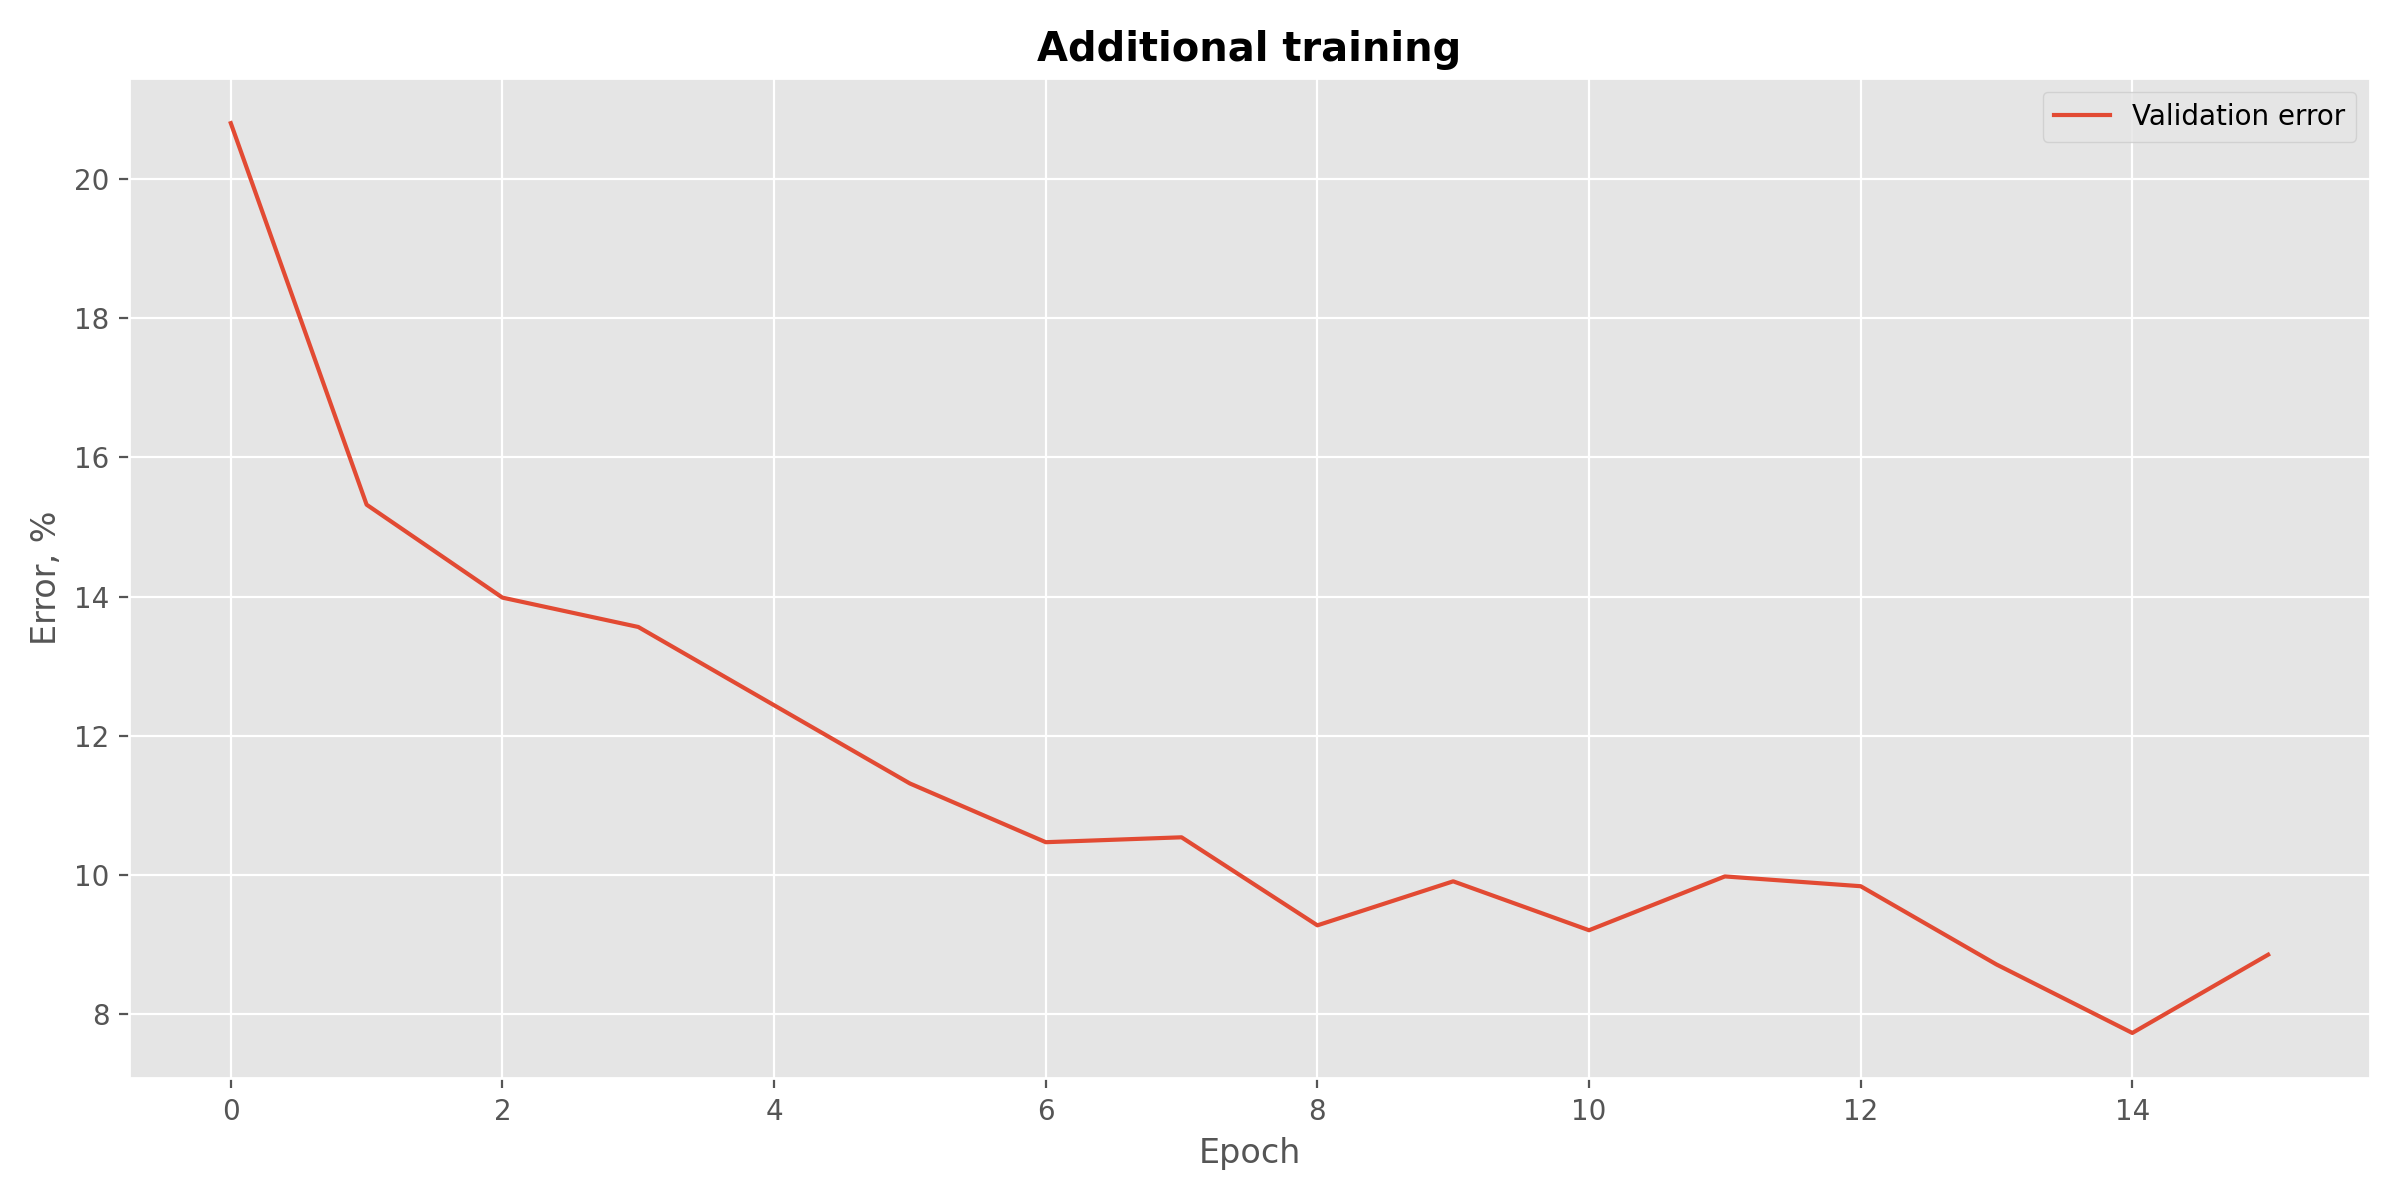
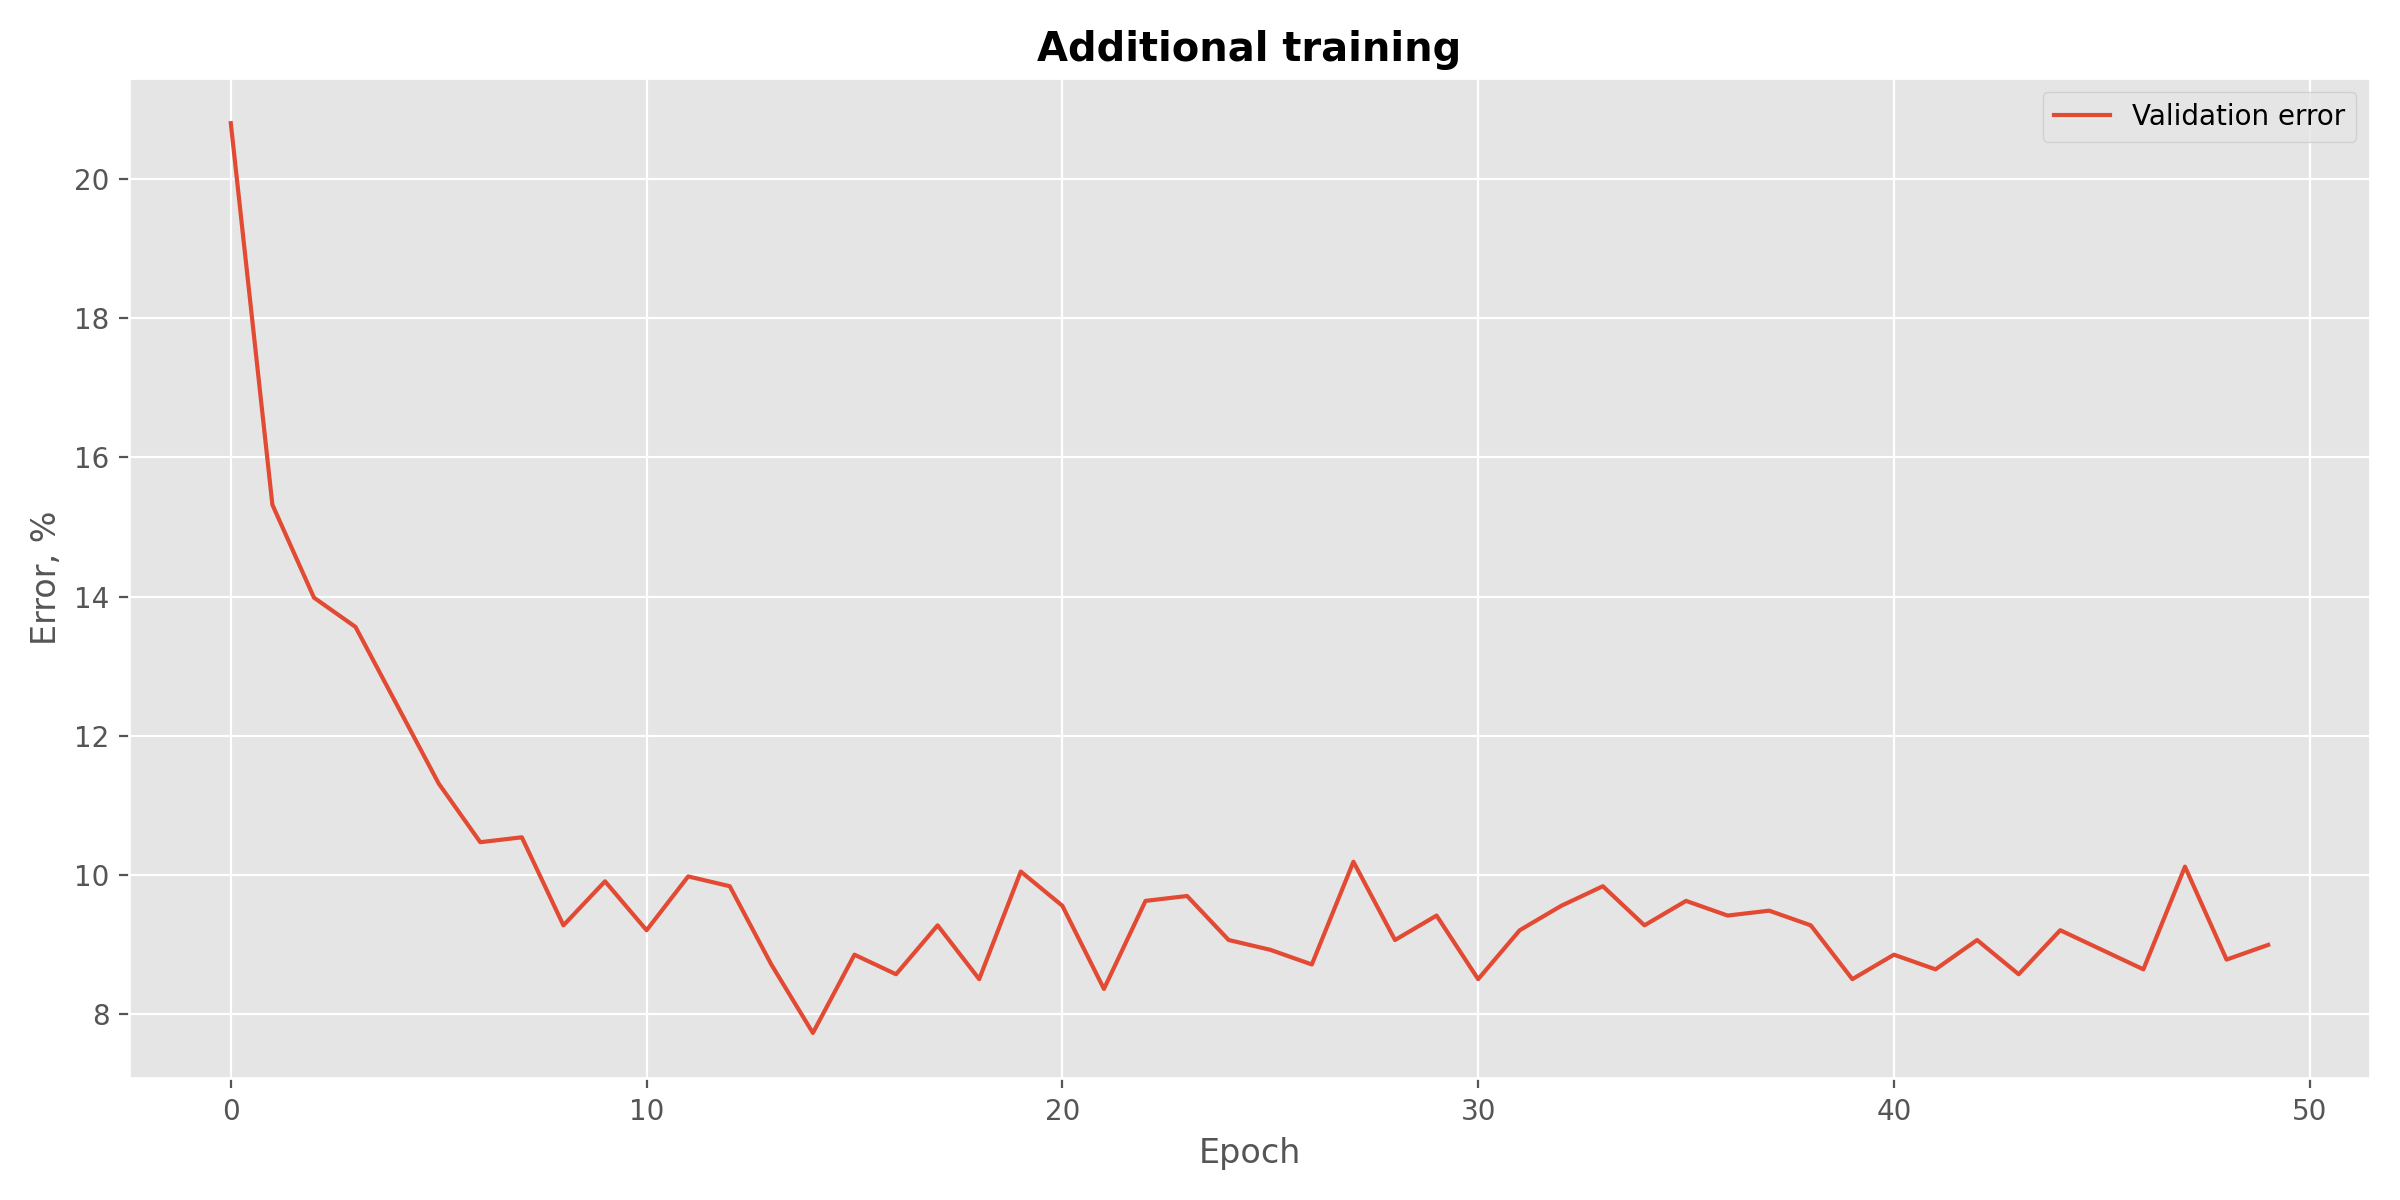
New plots and README.md edits

diff --git a/README.md b/README.md
@@ -82,3 +82,10 @@ due to the lack of compute at my disposal.
 | Weight Decay           | 1e-4  |
 
 ![image info](./output/additional_training.png)
+
+
+# Future work
+
+---
+
+- Add dropout to prevent overfitting
